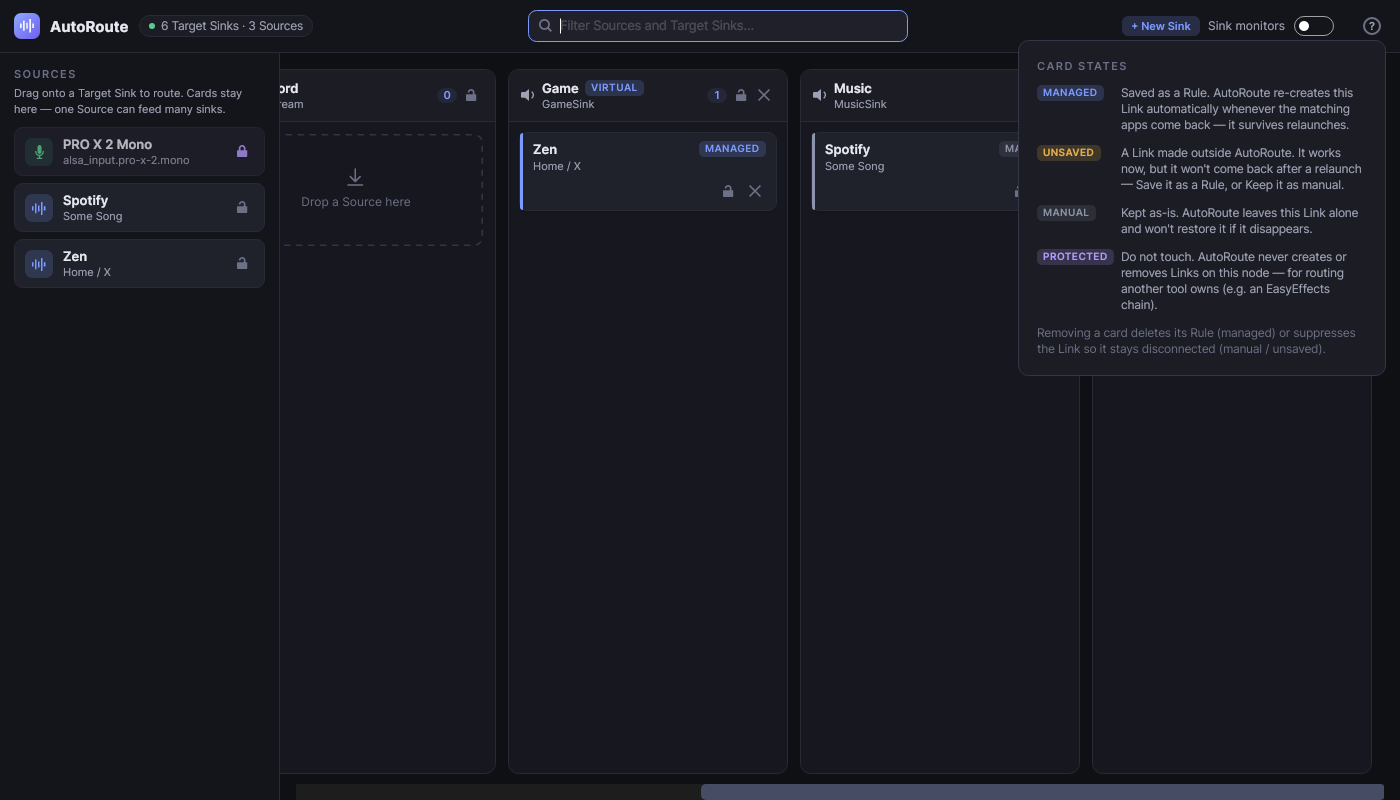
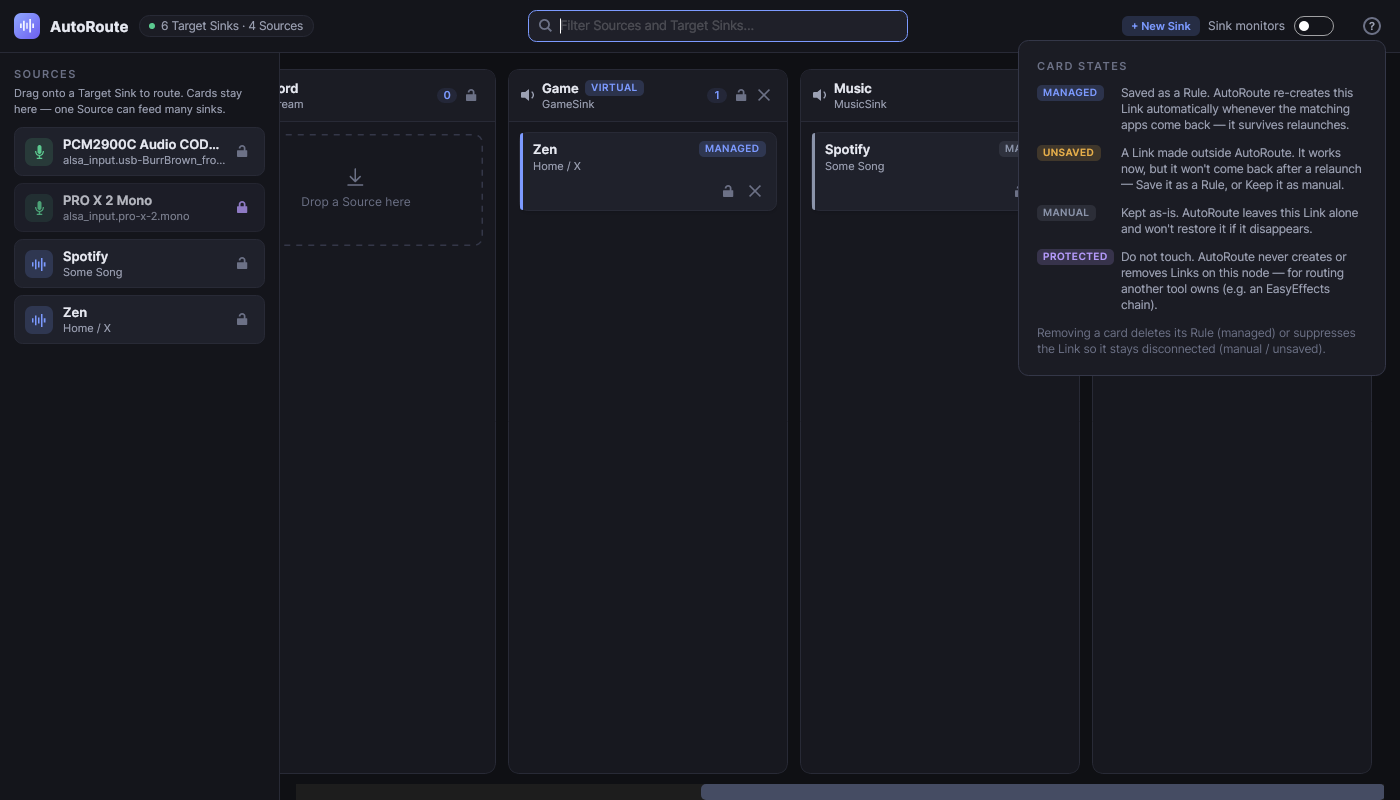
Contain long names in palette items and column cards
Real-world device names (BurrBrown-length ALSA ids) painted past the palette
and column edges. Root cause: ScrollViewer.Padding sits outside the
scroll-content measure, so items were measured against a wider constraint than
the visible panel — Avalonia's StackPanel then arranges children at their
desired width, and trimmed-at-the-wrong-width text spilled out. The padding
moved onto the scroll content (the pattern BoardView's board scroller already
documented), matching measure to the panel.

Hardening: the design graph now carries a deliberately long-named capture
device wired into a column, and the headless smoke asserts no palette item,
card, or TextBlock paints past its panel — so this class of overflow fails CI
instead of shipping. Palette and card titles/subtitles get full-name tooltips,
the drag ghost caps its width, and the palette/column borders clip as a last
line of defense.

Claude-Session: https://claude.ai/code/session_014QpVPmCWx5yF3NoBhwBRf5

diff --git a/src/AutoRoute.App/Design/HeadlessSmoke.cs b/src/AutoRoute.App/Design/HeadlessSmoke.cs
@@ -69,6 +69,7 @@ public static class HeadlessSmoke
         Check(gameRendered, "GameSink column present in the visual tree");
 
         CheckCreateFlyoutRegression(window, board, Check);
+        CheckHorizontalContainment(window, Check);
 
         Trace.Listeners.Remove(listener);
 
@@ -90,6 +91,39 @@ public static class HeadlessSmoke
         }
         Console.WriteLine($"UI SMOKE: FAIL ({failures.Count} check(s) failed)");
         return 1;
+    }
+
+    /// <summary>
+    /// Long-name containment: the design graph deliberately contains a real-world-length device
+    /// name; no palette item and no column card may paint past its panel's right edge (they did —
+    /// titles trimmed against a wider constraint and spilled out of the board).
+    /// </summary>
+    private static void CheckHorizontalContainment(Window window, Action<bool, string> check)
+    {
+        var offenders = new List<string>();
+
+        void Contained(Visual container, string label, IEnumerable<Visual> items)
+        {
+            foreach (var item in items)
+            {
+                var topRight = item.TranslatePoint(new Point(item.Bounds.Width, 0), container);
+                if (topRight is { } p && p.X > container.Bounds.Width + 0.5)
+                    offenders.Add($"{label} {item.GetType().Name}: right edge {p.X:0.#} > panel width {container.Bounds.Width:0.#}");
+            }
+        }
+
+        // Check the item/card borders AND every TextBlock: a text can be measured wider than its
+        // card (the ScrollViewer.Padding bug) and paint past the panel while the card itself fits.
+        foreach (var palette in window.GetVisualDescendants().OfType<PaletteView>())
+            Contained(palette, "palette", palette.GetVisualDescendants()
+                .Where(v => v is TextBlock || (v is Border b && b.Classes.Contains("paletteItem"))));
+
+        foreach (var column in window.GetVisualDescendants().OfType<SinkColumnView>())
+            Contained(column, "column", column.GetVisualDescendants()
+                .Where(v => v is TextBlock || (v is Border b && b.Classes.Contains("card"))));
+
+        check(offenders.Count == 0, "long names stay inside their panels (palette + columns)");
+        foreach (var o in offenders.Take(4)) Console.WriteLine("        · " + o);
     }
 
     /// <summary>

diff --git a/src/AutoRoute.App/Design/DesignGraph.cs b/src/AutoRoute.App/Design/DesignGraph.cs
@@ -35,11 +35,17 @@ public static class DesignGraph
         AppStream(nodes, ports, 185, "Zen", "Zen", "zen-bin", "Docs / Y"); // second Zen stream (app granularity)
         var spotify = AppStream(nodes, ports, 135, "spotify", "Spotify", "spotify", "Some Song");
         MonoCapture(nodes, ports, 56, "alsa_input.pro-x-2.mono", "PRO X 2 Mono");
+        // Real-world name lengths (seen live): titles/subtitles must ellipsize inside their cards,
+        // in the palette AND once assigned into a column — keep this one deliberately obnoxious.
+        var codec = MonoCapture(nodes, ports, 57,
+            "alsa_input.usb-BurrBrown_from_Texas_Instruments_USB_AUDIO_CODEC-00.analog-stereo",
+            "PCM2900C Audio CODEC Analog Stereo (Long Hardware Name)");
 
         // --- Existing Links: external unowned (render "unsaved") + one managed ---
         Link(links, 501, zen1, headset, unmanaged: true);   // Zen → headset (WirePlumber default)
         Link(links, 502, spotify, music, unmanaged: true);  // Spotify → MusicSink (manual)
         Link(links, 503, zen1, game, unmanaged: false, ruleId: "design-rule-zen-game"); // managed
+        Link(links, 504, codec, discord, unmanaged: true);  // long-named capture → a column card
 
         return new PwGraph(nodes, ports, links);
     }

diff --git a/src/AutoRoute.App/Behaviors/DragGhost.cs b/src/AutoRoute.App/Behaviors/DragGhost.cs
@@ -93,6 +93,10 @@ internal static class DragGhost
             FontSize = 12.5,
             FontWeight = FontWeight.SemiBold,
             VerticalAlignment = VerticalAlignment.Center,
+            // The ghost floats in the overlay with an infinite measure — cap it so a real-world
+            // device name doesn't produce a screen-wide ghost.
+            MaxWidth = 220,
+            TextTrimming = TextTrimming.CharacterEllipsis,
         });
 
         return new Border
